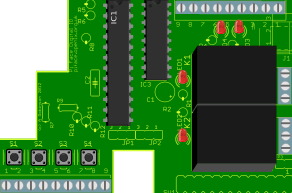
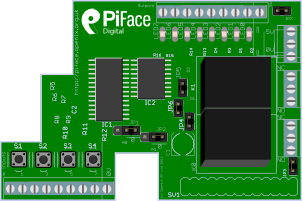
updated emulator to support board v2.1 and added support to control pullups

diff --git a/python/piface/emulator_parts.py b/python/piface/emulator_parts.py
@@ -9,7 +9,7 @@ TESTING = False
 
 # relative directories
 VIRT_PI_IMAGE = "images/pi.png"
-VIRT_LED_ON_IMAGE = "images/led_on.png"
+VIRT_LED_ON_IMAGE = "images/smt_led_on.png"
 if not TESTING:
     import os.path, sys
     package_dir = os.path.dirname(sys.modules["piface"].__file__)
@@ -22,20 +22,23 @@ PIN_COLOUR_RGB = (0, 1, 1)
 
 DEFAULT_SPACING = 10
 
+LED_Y_ROW = 33.0
+INPUT_PIN_Y = 189.0
+
 # pin circle locations
-ledsX = [180.7, 180.7, 236.7, 219.1]
-ledsY = [131.3, 72.3, 22.2, 22.2]
-switchesX = [14.3, 39.3, 64.3, 89.3]
-switchesY = [157.5, 157.5, 157.5, 157.5]
-relay1VirtPinsX = [285.0,285.0,285.0]
-relay1VirtPinsY = [124.0,136.0,148.0]
-relay2VirtPinsX = [285.0,285.0,285.0,]
-relay2VirtPinsY = [73.0,86.0,98.0]
-boardInputVirtPinsX = [6.0,19.0,31.0,44.0,56.0,68.0,80.0,92.0,104]
-boardInputVirtPinsY = [186.0,186.0,186.0,186.0,186.0,186.0,186.0,186.0,186.0]
+ledsX = [162.0, 174.0, 186.0, 198.0, 210.0, 222.0, 234.0, 246.0]
+ledsY = [LED_Y_ROW, LED_Y_ROW, LED_Y_ROW, LED_Y_ROW, LED_Y_ROW, LED_Y_ROW, LED_Y_ROW, LED_Y_ROW]
+switchesX = [19.0, 43.5, 68.0, 93.0]
+switchesY = [159.0, 159.0, 159.0, 159.0]
+relay1VirtPinsX = [291.0,291.0,291.0]
+relay1VirtPinsY = [127.0,139.0,151.0]
+relay2VirtPinsX = [291.0,291.0,291.0]
+relay2VirtPinsY = [76.0,89.0,101.0]
+boardInputVirtPinsX = [9.0,21.0,33.0,45.0,57.0,69.0,81.0,93.0,105]
+boardInputVirtPinsY = [INPUT_PIN_Y,INPUT_PIN_Y,INPUT_PIN_Y,INPUT_PIN_Y,INPUT_PIN_Y,INPUT_PIN_Y,INPUT_PIN_Y,INPUT_PIN_Y]
 # 8 <- 1
-boardOutputVirtPinsX = [266.0, 254.0, 242.0, 230.0, 218.0, 206.0, 194.0, 181.0]
-boardOutputVirtPinsY = [8.0, 8.0, 8.0, 8.0, 8.0, 8.0, 8.0, 8.0]
+boardOutputVirtPinsX = [163.0, 175.0, 187.0, 199.0, 211.0, 223.0, 235.0, 247.0]
+boardOutputVirtPinsY = [12.0, 12.0,12.0,12.0,12.0,12.0,12.0,12.0,12.0]
 
 RELAY_PIN_PATTERN_ON  = (0, 1, 1)
 RELAY_PIN_PATTERN_OFF = (1, 1, 0)
@@ -355,7 +358,7 @@ class EmulatorScreen(Screen):
 
         self.output_pins = [VirtPin(i) for i in range(1,9)]
         self.relays = [VirtRelay(i+1, self.output_pins[i]) for i in range(2)]
-        self.leds = [VirtLED(i+1, self.output_pins[i]) for i in range(4)]
+        self.leds = [VirtLED(i+1, self.output_pins[i]) for i in range(8)]
 
     def draw(self):
         cr = self.cr # Shabby shortcut.

diff --git a/python/piface/pfio.py b/python/piface/pfio.py
@@ -30,6 +30,7 @@ GPPUA  = 0x0C # port A pullups
 GPPUB  = 0x0D # port B pullups
 OUTPUT_PORT = GPIOA
 INPUT_PORT  = GPIOB
+INPUT_PULLUPS = GPPUB
 
 # piface peripheral pin numbers
 # each peripheral is connected to an I/O pin
@@ -283,6 +284,35 @@ def digital_read(pin_number):
     else:
         return 0
 
+def digital_write_pullup(pin_number, value):
+    """Writes the pullup value given to the pin specified"""
+    if VERBOSE_MODE:
+        __pfio_print("digital write pullup start")
+
+    pin_bit_mask = get_pin_bit_mask(pin_number)
+
+    if VERBOSE_MODE:
+        __pfio_print("pin bit mask: %s" % bin(pin_bit_mask))
+
+    old_pin_values = read_pullup()
+
+    if VERBOSE_MODE:
+        __pfio_print("old pin values: %s" % bin(old_pin_values))
+
+    # generate the 
+    if value:
+        new_pin_values = old_pin_values | pin_bit_mask
+    else:
+        new_pin_values = old_pin_values & ~pin_bit_mask
+
+    if VERBOSE_MODE:
+        __pfio_print("new pin values: %s" % bin(new_pin_values))
+
+    write_pullups(new_pin_values)
+
+    if VERBOSE_MODE:
+        __pfio_print("digital write end")
+
 """
 Some wrapper functions so the user doesn't have to deal with
 ugly port variables
@@ -297,6 +327,15 @@ def read_input():
     port, data = read(INPUT_PORT)
     # inputs are active low, but the user doesn't need to know this...
     return data ^ 0xff 
+
+def read_pullups():
+    """Reads value of pullup registers"""
+    port, data = read(INPUT_PULLUPS)
+    return data
+
+def write_pullups(data):
+    port, data = write(INPUT_PULLUPS, data)
+    return data
 
 def write_output(data):
     """Writed the values of the output pins"""

diff --git a/python/piface/emulator.py b/python/piface/emulator.py
@@ -14,8 +14,12 @@ import sys
 VERBOSE_MODE = False
 DEFAULT_SPACING = 10
 
-EMU_WIDTH  = 292
-EMU_HEIGHT = 193
+EMU_WIDTH  = 302
+EMU_HEIGHT = 201
+
+#EMU_WIDTH  = 292
+#EMU_HEIGHT = 193
+
 EMU_SPEED  = 20
 WINDOW_TITLE = "PiFace Emulator"
 
@@ -114,6 +118,12 @@ class Emulator(threading.Thread):
             self.spi_vis_check.connect("clicked", self.toggle_spi_visualiser)
             self.spi_vis_check.show()
 
+            # enable pullups checkbox
+            self.en_pull_check = gtk.CheckButton("Enable pullups")
+            self.en_pull_check.set_active(True)
+            self.en_pull_check.connect("clicked", self.toggle_en_pullups)
+            self.en_pull_check.show()
+
         # output override section
         self.output_override_section = \
                 emulator_parts.OutputOverrideSection(self.emu_screen.output_pins)
@@ -135,6 +145,7 @@ class Emulator(threading.Thread):
         if pfio_connect:
             container0.pack_start(update_inputs_containter)
             container0.pack_start(self.spi_vis_check)
+            container0.pack_start(self.en_pull_check)
 
         container0.show()
 
@@ -181,6 +192,12 @@ class Emulator(threading.Thread):
         else:
             self.spi_visualiser_section.hide()
             self.emu_window.resize(10, 10)
+
+    def toggle_en_pullups(self, widget, data=None):
+        if widget.get_active():
+		pfio.write_pullups(0xff)
+        else:
+		pfio.write_pullups(0)
 
 class InputUpdater(threading.Thread):
     def __init__(self, update_interval_entry, rpi_emulator):
